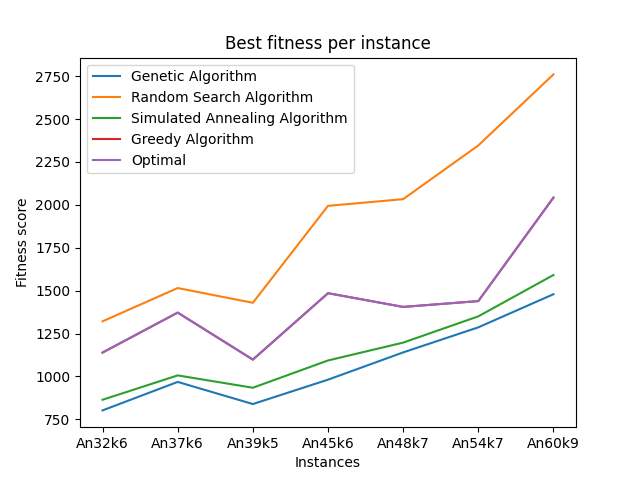
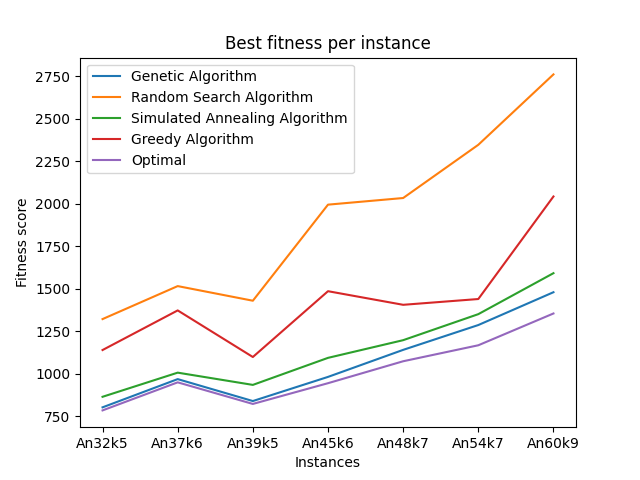
Graphs update.

diff --git a/src/KnapsackProblem/KnapsackProblem/KnapsackProblem/Misc/graph_drawer.py b/src/KnapsackProblem/KnapsackProblem/KnapsackProblem/Misc/graph_drawer.py
@@ -34,16 +34,16 @@ import matplotlib.pyplot as plt
 #plt.plot(gen100_popsizes, gen100_bestValues, label = "Best")
 #plt.plot(gen100_popsizes, gen100_worstValues, label = "Worst")
 
-#SA_AlphaValues = [0.1, 0.25, 0.5, 0.9, 0.99]
+SA_AlphaValues = [0.1, 0.25, 0.5, 0.9, 0.99]
 #SA_i100_t01_meanValues_exp = [1186, 1150, 1090, 1007, 976]
 #SA_i100_t01_bestValues_exp = [1079, 971, 937, 870, 867]
 #SA_i100_t01_worstValues_exp = [1312, 1252, 1226, 1180, 1151]
-#SA_i100_t01_runtimes_exp = [4, 4, 6, 47, 203]
+SA_i100_t01_runtimes_exp = [4, 4, 6, 47, 203]
 
 #SA_i100_t01_meanValues_lin = [1131, 1157, 1342, 1342, 1299]
 #SA_i100_t01_bestValues_lin = [1021, 1086, 1205, 1249, 1100]
 #SA_i100_t01_worstValues_lin = [1262, 1243, 1439, 1483, 1440]
-#SA_i100_t01_runtimes_lin = [5, 3, 1.5, 2.5, 1]
+SA_i100_t01_runtimes_lin = [5, 3, 1.5, 2.5, 1]
 
 #plt.xlabel("Alpha value")
 #plt.ylabel("Fitness score")
@@ -80,30 +80,29 @@ import matplotlib.pyplot as plt
 #plt.plot(SA_AlphaValues, SA_i100_t01_runtimes_lin, label = "Linear T change")
 #plt.xlabel("Alpha value")
 #plt.ylabel("Runtime [ms]")
-#plt.title("100 Generations GA, CC - 99%, MC - 5%")
+#plt.title("Exponential vs Linear T change")
 #plt.legend()
 #plt.show()
 # SA runtimes, Exp/Lin - finish
 
 
 # best instances
-#instances = ["An32k6", "An37k6", "An39k5", "An45k6", "An48k7", "An54k7", "An60k9"]
-#best_GA = [802, 968, 839, 981, 1140, 1286, 1479]
-#best_RSA = [1321, 1515, 1429, 1994, 2033, 2346, 2760]
-#best_SAA = [864, 1006, 934, 1093, 1197, 1350, 1591]
-#best_GrA = [1139, 1372, 1098, 1485, 1405, 1439, 2042]
-#optimal_v = [784, 949, 822, 944, 1073, 1167, 1354]
-
-#plt.plot(instances, best_GA, label = "Genetic Algorithm")
-#plt.plot(instances, best_RSA, label = "Random Search Algorithm")
-#plt.plot(instances, best_SAA, label = "Simulated Annealing Algorithm")
-#plt.plot(instances, best_GrA, label = "Greedy Algorithm")
-#plt.plot(instances, best_GrA, label = "Optimal")
+instances = ["An32k5", "An37k6", "An39k5", "An45k6", "An48k7", "An54k7", "An60k9"]
+best_GA = [802, 968, 839, 981, 1140, 1286, 1479]
+best_RSA = [1321, 1515, 1429, 1994, 2033, 2346, 2760]
+best_SAA = [864, 1006, 934, 1093, 1197, 1350, 1591]
+best_GrA = [1139, 1372, 1098, 1485, 1405, 1439, 2042]
+optimal_v = [784, 949, 822, 944, 1073, 1167, 1354]
+plt.plot(instances, best_GA, label = "Genetic Algorithm")
+plt.plot(instances, best_RSA, label = "Random Search Algorithm")
+plt.plot(instances, best_SAA, label = "Simulated Annealing Algorithm")
+plt.plot(instances, best_GrA, label = "Greedy Algorithm")
+plt.plot(instances, optimal_v, label = "Optimal")
 #
-#plt.xlabel("Instances")
-#plt.ylabel("Fitness score")
-#plt.title("Best fitness per instance")
+plt.xlabel("Instances")
+plt.ylabel("Fitness score")
+plt.title("Best fitness per instance")
 #
-#plt.legend()
-#plt.show()
+plt.legend()
+plt.show()
 # best instances - finish
